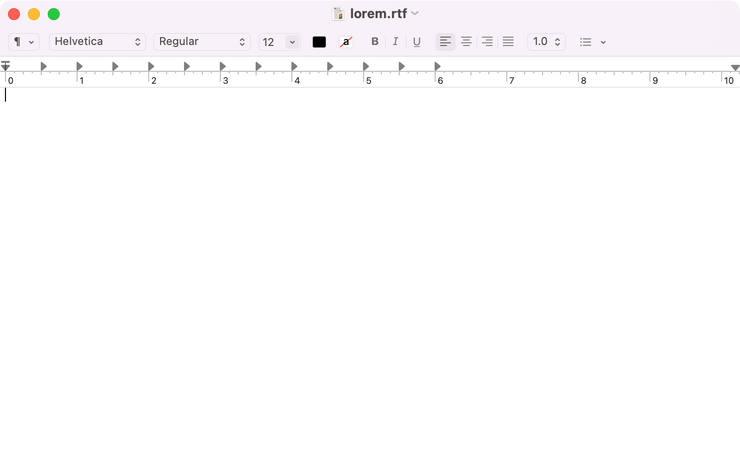
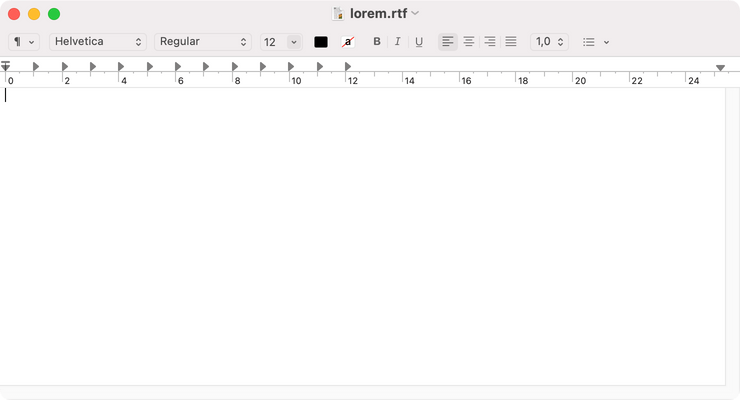
:zap: Reduce capture size

Changed region(s): [[0.0, 0.06, 1.0, 0.21], [0.4351, 0.0, 0.5595, 0.06], [0.0, 0.03, 0.0932, 0.06]]

diff --git a/record/textedit/RichText/true.js b/record/textedit/RichText/true.js
@@ -19,7 +19,7 @@ module.exports = {
       await runner
         .setDefault('com.apple.TextEdit', 'RichText', '-bool true', '1', '')
         .openApp('TextEdit', filename)
-        .moveAndResizeApp('TextEdit', 0, 0, 744, 451)
+        .moveAndResizeApp('TextEdit', 0, 0, 740, 400)
         .captureApp('TextEdit', `${outputPath}/true.png`)
         .deleteDefault('com.apple.TextEdit', 'RichText')
         .killApp('TextEdit')

diff --git a/record/textedit/RichText/false.js b/record/textedit/RichText/false.js
@@ -16,7 +16,7 @@ module.exports = {
       await runner
         .setDefault('com.apple.TextEdit', 'RichText', '-bool false', '0')
         .openApp('TextEdit', fileName)
-        .moveAndResizeApp('TextEdit', 0, 0, 744, 451)
+        .moveAndResizeApp('TextEdit', 0, 0, 740, 400)
         .captureApp('TextEdit', `${outputPath}/false.png`)
         .deleteDefault('com.apple.TextEdit', 'RichText')
         .killApp('TextEdit')
